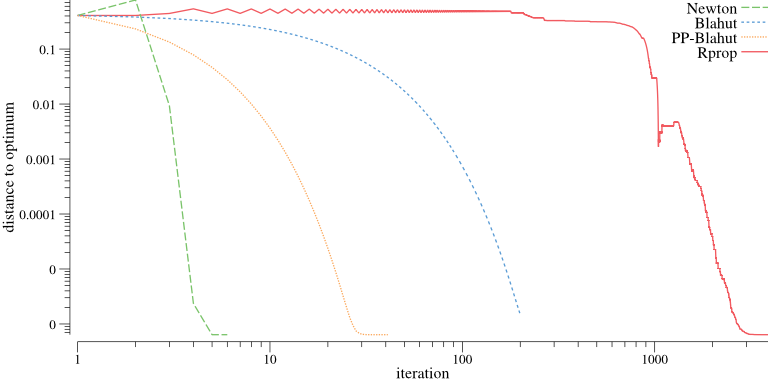
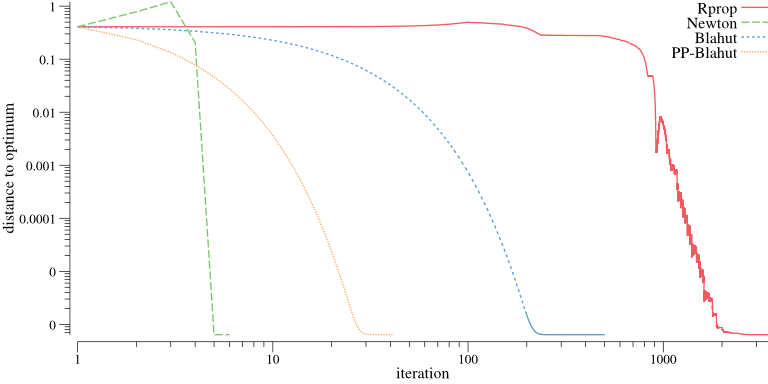
2015/12/02-14:09:13 (Linux furunkel.molgen.mpg.de unknown)

diff --git a/demo/channel/channel.go b/demo/channel/channel.go
@@ -147,6 +147,10 @@ func objective_f(active []bool, channel Matrix, variables Vector) Vector {
     // deactivate constraint
     if lambda[i].Value() > 0.0 {
       active[i] = false
+    }
+    if active[i] {
+      px[i]     = NewConstant(0.0)
+    } else {
       lambda[i] = NewConstant(0.0)
     }
   }
@@ -207,7 +211,7 @@ func channel_capacity(channel [][]float64, pxstar, px0 []float64) ([][]float64) 
   // precision
   const epsilon = 1e-12
   // initial gradient step size
-  const step    = 0.1
+  const step    = 0.001
 
   // copy variables for automatic differentation
   channelm := NewMatrix(n, m, flatten(channel))
